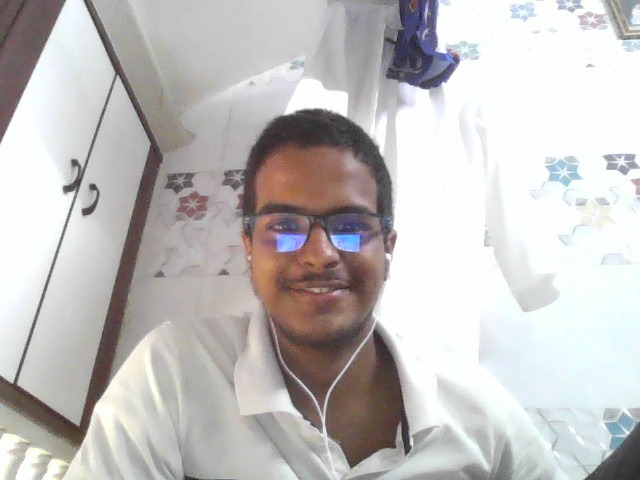
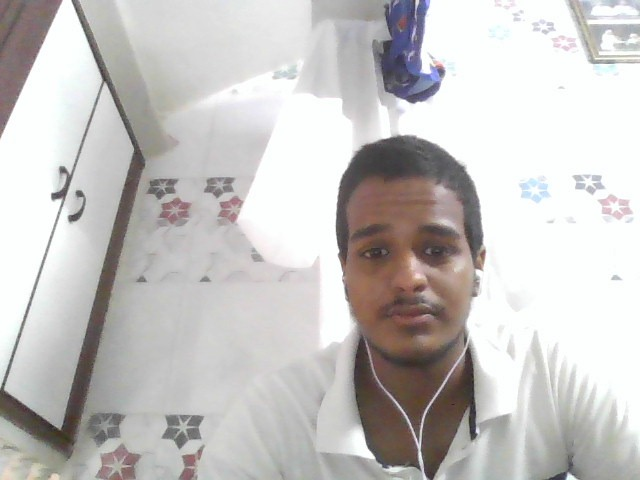
face_rec

diff --git a/static/js/interview_script.js b/static/js/interview_script.js
@@ -13,48 +13,55 @@ async function startCamera() {
 }
 
 function toggleCamera() {
-    const video = document.getElementById('user-camera');
-    const frameDataInput = document.getElementById('frame-data');
-    let capturing = false;
-    if (!capturing) {
-      console.log("hello i am here")
-      capturing = true;
-      const canvas = document.createElement('canvas');
-      const context = canvas.getContext('2d');
-      const captureFrame = () => {
-        if (capturing) {
-          canvas.width = video.videoWidth;
-          canvas.height = video.videoHeight;
-          context.drawImage(video, 0, 0, canvas.width, canvas.height);
-          const imageData = canvas.toDataURL('image/jpeg');
-          console.log("imagedata:- ",imageData)
-          frameDataInput.value = imageData;
-          const response = fetch('/face_rec', {
+  const video = document.getElementById('user-camera');
+  const frameDataInput = document.getElementById('frame-data');
+  let capturing = false;
+  if (!capturing) {
+    capturing = true;
+    const canvas = document.createElement('canvas');
+    const context = canvas.getContext('2d');
+    const captureFrame = () => {
+      if (capturing) {
+        canvas.width = video.videoWidth;
+        canvas.height = video.videoHeight;
+        context.drawImage(video, 0, 0, canvas.width, canvas.height);
+        const imageData = canvas.toDataURL('image/jpeg');
+        frameDataInput.value = imageData;
+        fetch('/face_rec', {
             method: 'POST',
             body: new FormData(document.getElementById('camera-form')),
+          }).then(response => response.json()) // Parse response as JSON
+          .then(result => {
+              if (result.success === true) {
+                Swal.fire({
+                  title: 'Success!',
+                  text: 'You are verified!!',
+                  icon: 'success',
+                  confirmButtonText: 'Okay'
+                }).then((result) => {
+                  if (result.isConfirmed) {
+                    if (userCamera.srcObject) {
+                      userCamera.srcObject.getTracks().forEach(track => track.stop());
+                      userCamera.srcObject = null;
+                    }
+                  }
+                });
+              } else {
+                Swal.fire({
+                  title: 'Error!',
+                  text: 'Face does not Match!1, try again',
+                  icon: 'error',
+                  confirmButtonText: 'Okay'
+                });
+              }
+          })
+          .catch(error => {
+              console.error('Error:', error);
           });
-          // const result = response.json();
-          // if (result.success === true) {
-          //   Swal.fire({
-          //     title: 'Success!',
-          //     text: 'You are verified!!',
-          //     icon: 'success',
-          //     confirmButtonText: 'Okay'
-          //   })
-          // }
-          // else {
-          //   Swal.fire({
-          //     title: 'Error!',
-          //     text: 'Face does not Match!1, try again',
-          //     icon: 'error',
-          //     confirmButtonText: 'Okay'
-          //   });
-          // }
-          // requestAnimationFrame(captureFrame);
-        }
-      };
-      captureFrame();
-    }
+      }
+    };
+    captureFrame();
+  }
 }
 
 function toggleMicrophone() {
@@ -80,7 +87,6 @@ startCamera();
 toggleCameraButton.addEventListener("click", toggleCamera);
 // toggleMicButton.addEventListener("click", toggleMicrophone);
 
-// Display interview questions on page load
 displayQuestions();
 
 // navigator.mediaDevices.getUserMedia({ video: true })

diff --git a/app.py b/app.py
@@ -218,7 +218,21 @@ def face_rec():
         save_path = os.path.join('uploads/', 'captured_frame.jpg')
         with open(save_path, 'wb') as f:
             f.write(image_data)
-    response = {'success': True}
+    file=open("uploads/User.p","rb")
+    enc=pickle.load(file)
+    file.close()
+    img=cv2.imread("uploads/captured_frame.jpg")
+    frame_rgb=cv2.cvtColor(img,cv2.COLOR_BGR2RGB)
+    face_loc=face_recognition.face_locations(frame_rgb)
+    enc_frame=face_recognition.face_encodings(frame_rgb,face_loc)
+    match=face_recognition.compare_faces(enc,enc_frame)
+    dist=face_recognition.face_distance(enc,enc_frame)
+    dist=(1-dist)*100
+    print("Percentage:- ",dist)
+    if match:
+        response = {'success': True}
+    else:
+        response = {'success': False}
     return jsonify(response)
 
 @app.route('/resume-parser', methods=['POST'])
